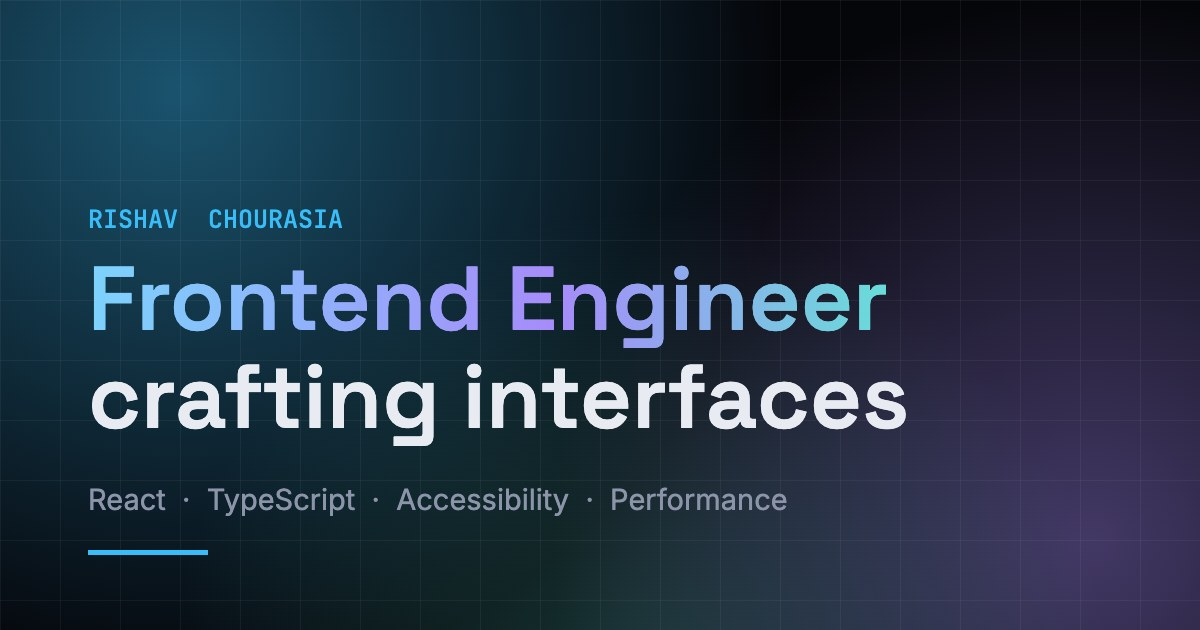
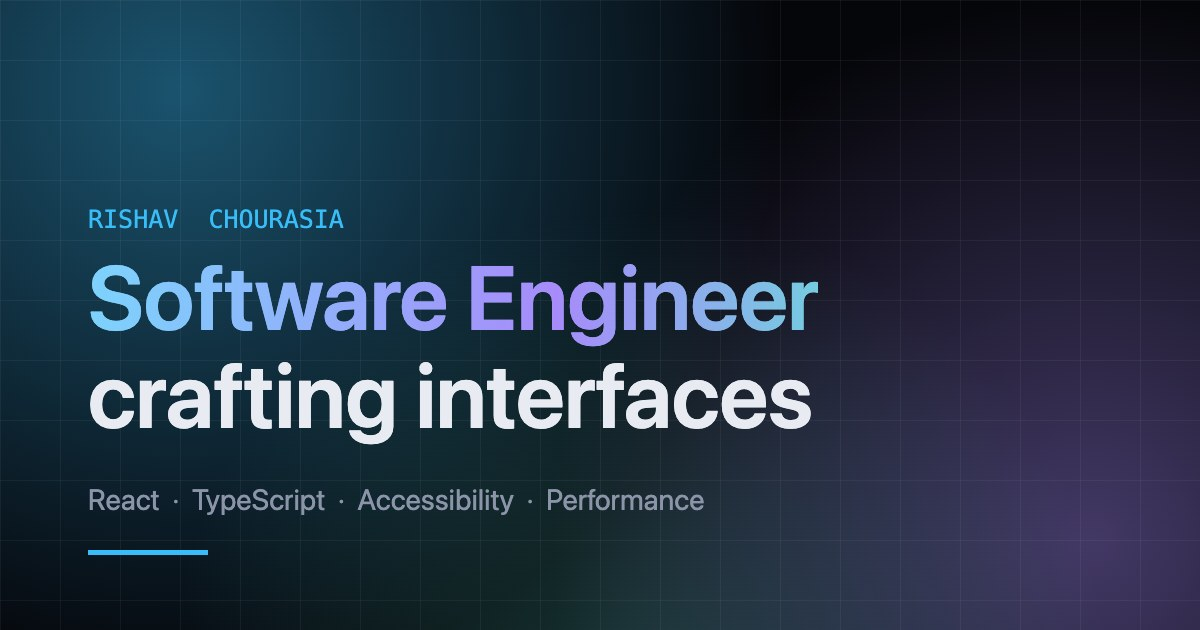
Add GoldStack, reframe as frontend-focused Software Engineer, add SEO and GTM
- GoldStack is the only personal project, with a real UI screenshot; Personal tab shows first
- Title becomes Software Engineer, with frontend focus called out in hero, About and meta
- Build-time SEO: absolute OG URLs, canonical, Person JSON-LD, robots.txt and sitemap.xml
- Optional GTM via GTM_ID env var, with slide_view and work_tab dataLayer events
- Fill in the GitHub profile URL and regenerate the share card

Changed region(s): [[0.0617, 0.4222, 0.7708, 0.7238], [0.0617, 0.754, 0.6783, 0.8143], [0.0617, 0.3317, 0.3083, 0.3619]]

diff --git a/vite.config.ts b/vite.config.ts
@@ -1,10 +1,115 @@
-import { defineConfig } from 'vite'
+import { readFileSync } from 'node:fs'
+import { defineConfig, loadEnv, type HtmlTagDescriptor, type Plugin } from 'vite'
 import react from '@vitejs/plugin-react'
 import tailwindcss from '@tailwindcss/vite'
 
-export default defineConfig({
-  plugins: [react(), tailwindcss()],
-  resolve: {
-    alias: { '@': new URL('./src', import.meta.url).pathname },
-  },
+const readJson = (path: string) => JSON.parse(readFileSync(new URL(path, import.meta.url), 'utf8'))
+
+const meta = (attrs: Record<string, string>): HtmlTagDescriptor => ({ tag: 'meta', attrs, injectTo: 'head' })
+
+/**
+ * Absolute URLs, structured data, robots.txt and sitemap.xml for crawlers and
+ * link-preview bots, which need full URLs and don't run the app's JS.
+ * On Vercel the production URL is read from the build environment, so it
+ * follows the custom domain once one is attached.
+ */
+function seo(siteUrl: string, gtmId: string | undefined): Plugin {
+  const profile = readJson('./src/content/profile.json')
+  const site = readJson('./src/content/site.json')
+  const skills = readJson('./src/content/skills.json')
+  const url = `${siteUrl}/`
+  const image = `${siteUrl}/og.jpg`
+
+  const person = {
+    '@context': 'https://schema.org',
+    '@type': 'Person',
+    name: profile.name,
+    jobTitle: profile.role,
+    description: site.meta.description,
+    url,
+    image,
+    email: `mailto:${profile.email}`,
+    address: { '@type': 'PostalAddress', addressCountry: profile.location },
+    alumniOf: { '@type': 'CollegeOrUniversity', name: profile.education.school },
+    knowsAbout: skills.marquee,
+    sameAs: Object.values(profile.socials).filter(Boolean),
+  }
+
+  return {
+    name: 'portfolio-seo',
+    transformIndexHtml() {
+      const tags: HtmlTagDescriptor[] = [
+        { tag: 'link', attrs: { rel: 'canonical', href: url }, injectTo: 'head' },
+        meta({ name: 'robots', content: 'index, follow, max-image-preview:large' }),
+        meta({ property: 'og:url', content: url }),
+        meta({ property: 'og:site_name', content: profile.name }),
+        meta({ property: 'og:locale', content: 'en_IN' }),
+        meta({ property: 'og:image', content: image }),
+        meta({ property: 'og:image:alt', content: `${profile.name}, ${profile.role}` }),
+        meta({ name: 'twitter:image', content: image }),
+        meta({ name: 'twitter:image:alt', content: `${profile.name}, ${profile.role}` }),
+        {
+          tag: 'script',
+          attrs: { type: 'application/ld+json' },
+          // `<` escaped so no string in the content can close the script tag.
+          children: JSON.stringify(person).replace(/</g, '\\u003c'),
+          injectTo: 'head',
+        },
+      ]
+
+      if (gtmId) {
+        tags.push(
+          {
+            tag: 'script',
+            children: `(function(w,d,s,l,i){w[l]=w[l]||[];w[l].push({'gtm.start':new Date().getTime(),event:'gtm.js'});var f=d.getElementsByTagName(s)[0],j=d.createElement(s),dl=l!='dataLayer'?'&l='+l:'';j.async=true;j.src='https://www.googletagmanager.com/gtm.js?id='+i+dl;f.parentNode.insertBefore(j,f);})(window,document,'script','dataLayer','${gtmId}');`,
+            injectTo: 'head-prepend',
+          },
+          {
+            tag: 'noscript',
+            children: `<iframe src="https://www.googletagmanager.com/ns.html?id=${gtmId}" height="0" width="0" style="display:none;visibility:hidden"></iframe>`,
+            injectTo: 'body-prepend',
+          },
+        )
+      }
+      return tags
+    },
+    generateBundle() {
+      this.emitFile({
+        type: 'asset',
+        fileName: 'robots.txt',
+        source: `User-agent: *\nAllow: /\n\nSitemap: ${siteUrl}/sitemap.xml\n`,
+      })
+      this.emitFile({
+        type: 'asset',
+        fileName: 'sitemap.xml',
+        source: `<?xml version="1.0" encoding="UTF-8"?>
+<urlset xmlns="http://www.sitemaps.org/schemas/sitemap/0.9">
+  <url>
+    <loc>${url}</loc>
+    <lastmod>${new Date().toISOString().slice(0, 10)}</lastmod>
+  </url>
+</urlset>
+`,
+      })
+    },
+  }
+}
+
+export default defineConfig(({ mode }) => {
+  const env = { ...loadEnv(mode, process.cwd(), ''), ...process.env }
+
+  const productionHost = env.VERCEL_PROJECT_PRODUCTION_URL
+  const siteUrl = (env.SITE_URL || (productionHost ? `https://${productionHost}` : 'http://localhost:5173')).replace(/\/+$/, '')
+
+  const gtmId = env.GTM_ID?.trim()
+  if (gtmId && !/^GTM-[A-Z0-9]+$/.test(gtmId)) {
+    throw new Error(`GTM_ID must look like GTM-XXXXXXX, got "${gtmId}"`)
+  }
+
+  return {
+    plugins: [react(), tailwindcss(), seo(siteUrl, gtmId || undefined)],
+    resolve: {
+      alias: { '@': new URL('./src', import.meta.url).pathname },
+    },
+  }
 })

diff --git a/index.html b/index.html
@@ -5,30 +5,28 @@
     <meta name="viewport" content="width=device-width, initial-scale=1.0" />
     <link rel="icon" type="image/svg+xml" href="/favicon.svg" />
 
-    <title>Rishav Chourasia — Frontend Engineer</title>
+    <title>Rishav Chourasia — Software Engineer</title>
     <meta
       name="description"
-      content="Frontend engineer building fast, accessible and delightfully animated interfaces with React and TypeScript."
+      content="Frontend-focused software engineer building fast, accessible and delightfully animated interfaces with React and TypeScript."
     />
     <meta name="author" content="Rishav Chourasia" />
     <meta name="theme-color" content="#05060a" />
 
     <meta property="og:type" content="website" />
-    <meta property="og:title" content="Rishav Chourasia — Frontend Engineer" />
+    <meta property="og:title" content="Rishav Chourasia — Software Engineer" />
     <meta
       property="og:description"
-      content="Frontend engineer building fast, accessible and delightfully animated interfaces with React and TypeScript."
+      content="Frontend-focused software engineer building fast, accessible and delightfully animated interfaces with React and TypeScript."
     />
-    <meta property="og:image" content="/og.jpg" />
     <meta property="og:image:width" content="1200" />
     <meta property="og:image:height" content="630" />
     <meta name="twitter:card" content="summary_large_image" />
-    <meta name="twitter:title" content="Rishav Chourasia — Frontend Engineer" />
+    <meta name="twitter:title" content="Rishav Chourasia — Software Engineer" />
     <meta
       name="twitter:description"
-      content="Frontend engineer building fast, accessible and delightfully animated interfaces with React and TypeScript."
+      content="Frontend-focused software engineer building fast, accessible and delightfully animated interfaces with React and TypeScript."
     />
-    <meta name="twitter:image" content="/og.jpg" />
 
     <link rel="preconnect" href="https://fonts.googleapis.com" />
     <link rel="preconnect" href="https://fonts.gstatic.com" crossorigin />

diff --git a/src/slides/WorkSlide.tsx b/src/slides/WorkSlide.tsx
@@ -9,16 +9,17 @@ import { CarouselItem } from '@/components/ui/CarouselItem'
 import { projects } from '@/content'
 import { useCarousel } from '@/hooks/useCarousel'
 import { cn } from '@/lib/utils'
+import { track } from '@/lib/analytics'
 import type { ProjectCategory } from '@/types/content'
 
 const CATEGORIES: { id: ProjectCategory; label: string }[] = [
-  { id: 'company', label: 'Company' },
   { id: 'personal', label: 'Personal' },
+  { id: 'company', label: 'Company' },
 ]
 
 /** Shown first. A named constant rather than `CATEGORIES[0].id` so the
  *  default doesn't silently change if the list above is ever reordered. */
-const DEFAULT_CATEGORY: ProjectCategory = 'company'
+const DEFAULT_CATEGORY: ProjectCategory = 'personal'
 
 /**
  * Projects live in a horizontal snap track so the slide stays one viewport
@@ -49,7 +50,7 @@ export function WorkSlide({ label }: { label: string }) {
         <SlideHeading
           eyebrow="Selected work"
           title={<>Things I&apos;ve <span className="text-gradient">built.</span></>}
-          subtitle="Company work and personal builds — same craft, different constraints."
+          subtitle="Personal builds and company work — same craft, different constraints."
         />
 
         <motion.div variants={slideItem} className="flex items-center gap-3">
@@ -61,7 +62,10 @@ export function WorkSlide({ label }: { label: string }) {
                   key={c.id}
                   role="tab"
                   aria-selected={active}
-                  onClick={() => setCategory(c.id)}
+                  onClick={() => {
+                    setCategory(c.id)
+                    track('work_tab', { category: c.id })
+                  }}
                   className={cn(
                     'relative rounded-full px-4 py-1.5 text-sm transition-colors duration-200',
                     active ? 'text-ink-950' : 'text-muted hover:text-[var(--text)]',

diff --git a/src/components/deck/Deck.tsx b/src/components/deck/Deck.tsx
@@ -5,6 +5,7 @@ import { useContentFits } from './useContentFits'
 import { useSlideScroller } from './useSlideScroller'
 import { useDeckWheel } from './useDeckWheel'
 import { invariant } from '@/lib/utils'
+import { track } from '@/lib/analytics'
 import { useMediaQuery } from '@/hooks/useMediaQuery'
 import type { SlideId } from '@/types/content'
 
@@ -119,6 +120,11 @@ export function Deck({ slideIds, children }: Props) {
   // `undefined` on to everything that reads `activeId`.
   const activeId = slideIds[activeIndex]
   invariant(activeId, `Deck: activeIndex ${activeIndex} is out of range for ${slideIds.length} slides`)
+
+  // The deck is one page, so slides stand in for page views in analytics.
+  useEffect(() => {
+    track('slide_view', { slide_id: activeId, slide_index: activeIndex + 1 })
+  }, [activeId, activeIndex])
 
   const value = useMemo<DeckState>(
     () => ({

diff --git a/scripts/og.html b/scripts/og.html
@@ -22,7 +22,7 @@
   // works over file:// with no fetch.
   const params = new URLSearchParams(location.hash.slice(1))
   const name = params.get('name') ?? 'Your Name'
-  const role = params.get('role') ?? 'Frontend Engineer'
+  const role = params.get('role') ?? 'Software Engineer'
   const line2 = params.get('line2') ?? 'crafting interfaces'
   const skills = params.get('skills') ?? 'React  ·  TypeScript  ·  Accessibility  ·  Performance'
   const port = params.get('port') ?? '5199'

diff --git a/src/slides/AboutSlide.tsx b/src/slides/AboutSlide.tsx
@@ -10,7 +10,7 @@ export function AboutSlide({ label }: { label: string }) {
     <Slide id="about" label={label}>
       <SlideHeading
         eyebrow="About"
-        title={<>A frontend engineer who sweats the <span className="text-gradient">details.</span></>}
+        title={<>A frontend-focused software engineer who sweats the <span className="text-gradient">details.</span></>}
         className="mb-10"
       />
 

diff --git a/src/lib/analytics.ts b/src/lib/analytics.ts
@@ -1,0 +1,10 @@
+declare global {
+  interface Window {
+    dataLayer?: Record<string, unknown>[]
+  }
+}
+
+/** Pushes a custom event to Google Tag Manager; a no-op when GTM isn't loaded. */
+export function track(event: string, params: Record<string, unknown> = {}) {
+  window.dataLayer?.push({ event, ...params })
+}

diff --git a/src/lib/tokens.ts b/src/lib/tokens.ts
@@ -55,7 +55,7 @@ export const FONTS = [
     label: 'Display',
     varName: '--font-display',
     usage: 'Headings, stat figures, the wordmark',
-    sample: 'Frontend Engineer',
+    sample: 'Software Engineer',
     className: 'font-display',
   },
   {
